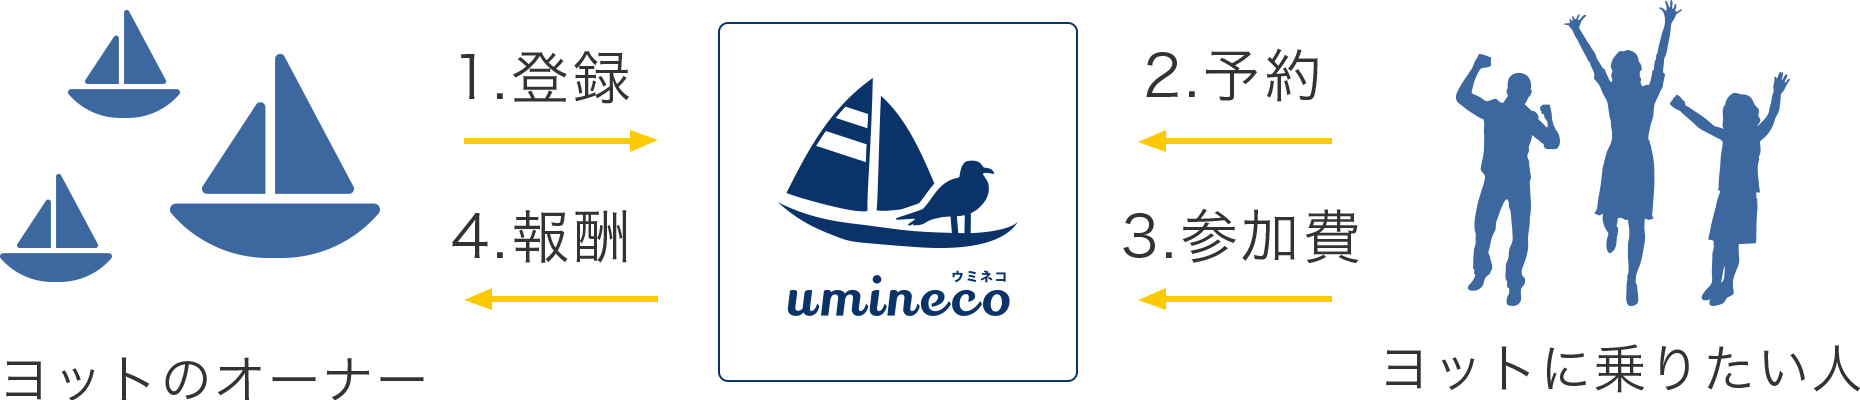
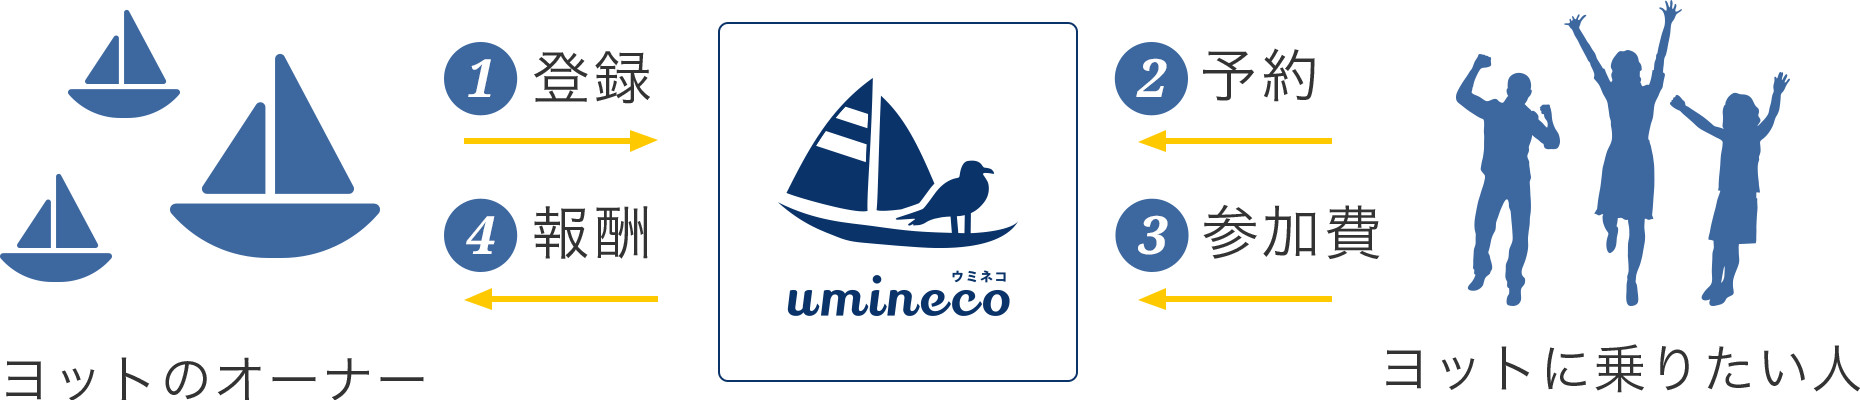
サイト利用の流れの番号の見た目修正

diff --git a/frontend/css/object/project/_sp_about.scss b/frontend/css/object/project/_sp_about.scss
@@ -60,8 +60,12 @@
   }
   .flowList {
     margin-bottom: 30px;
+
+    &__img {
+      display: inline;
+    }
     li {
-      margin-bottom: 5px;
+      margin-bottom: 10px;
     }
   }
   .attention {

diff --git a/frontend/css/object/project/_about.scss b/frontend/css/object/project/_about.scss
@@ -65,6 +65,10 @@
   }
   .flowList {
     margin-bottom: 50px;
+
+    &__img {
+      display: inline;
+    }
     li {
       @extend %font-18;
       margin-bottom: 5px;
